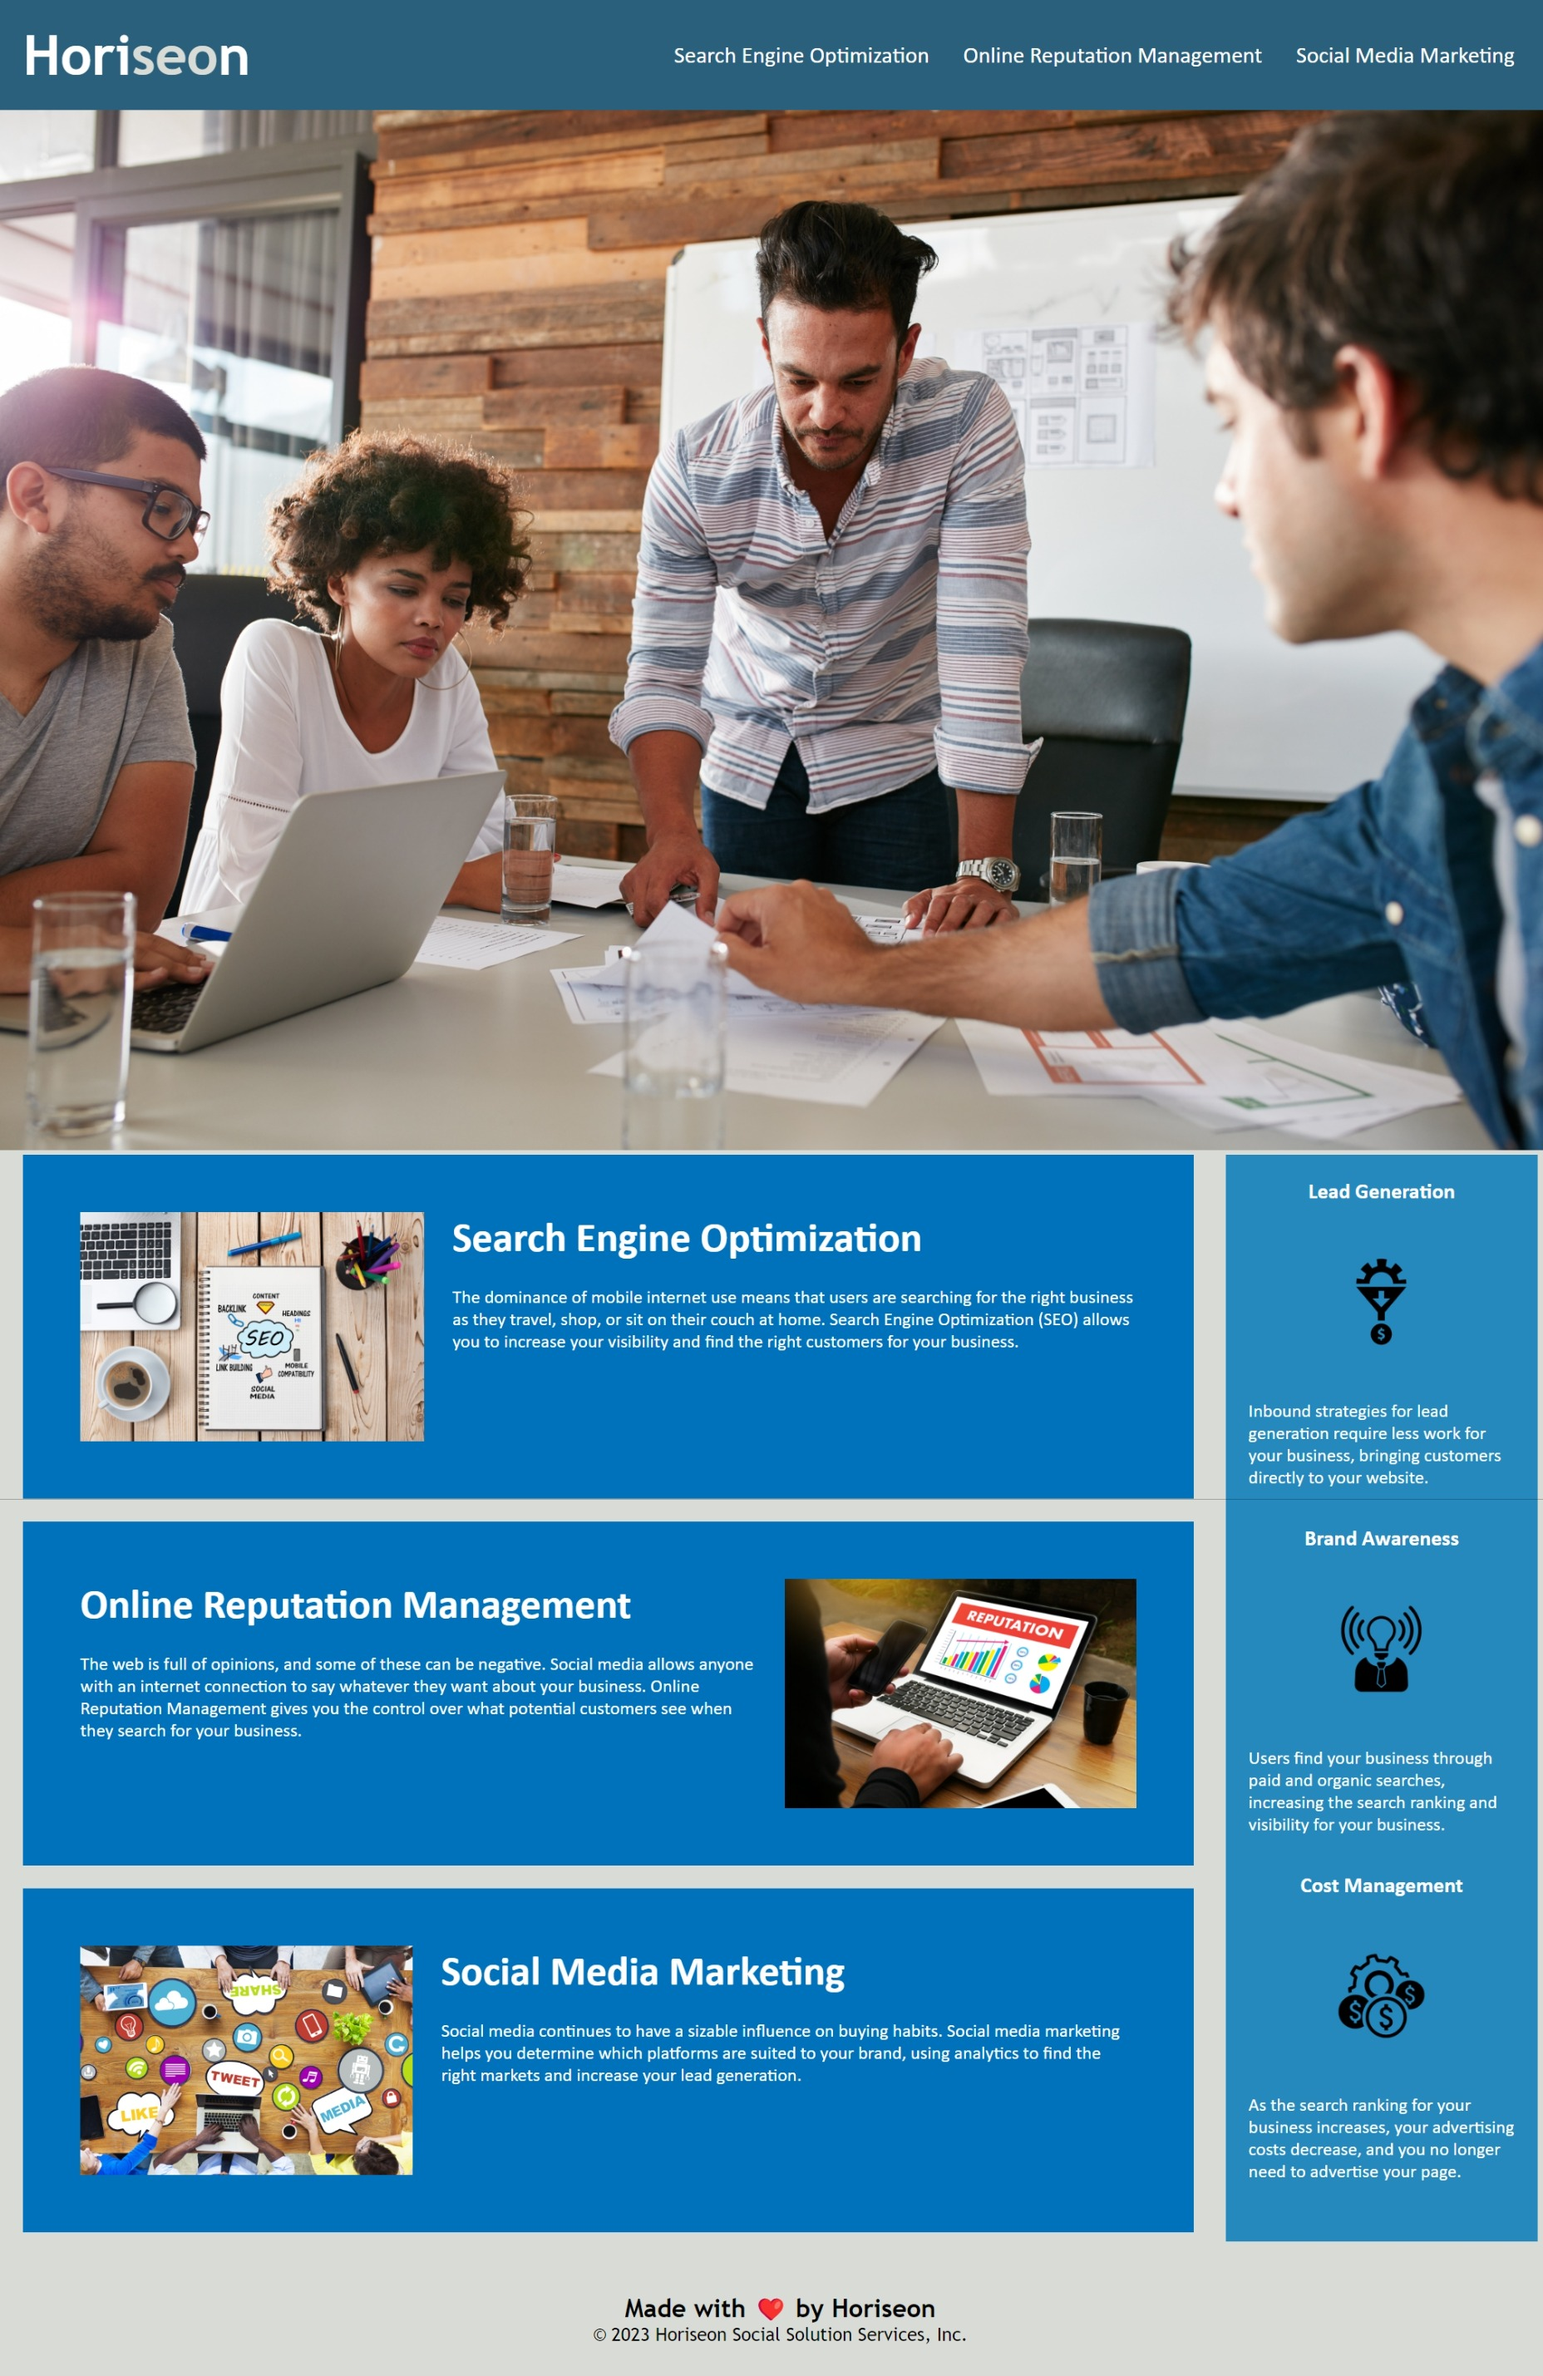
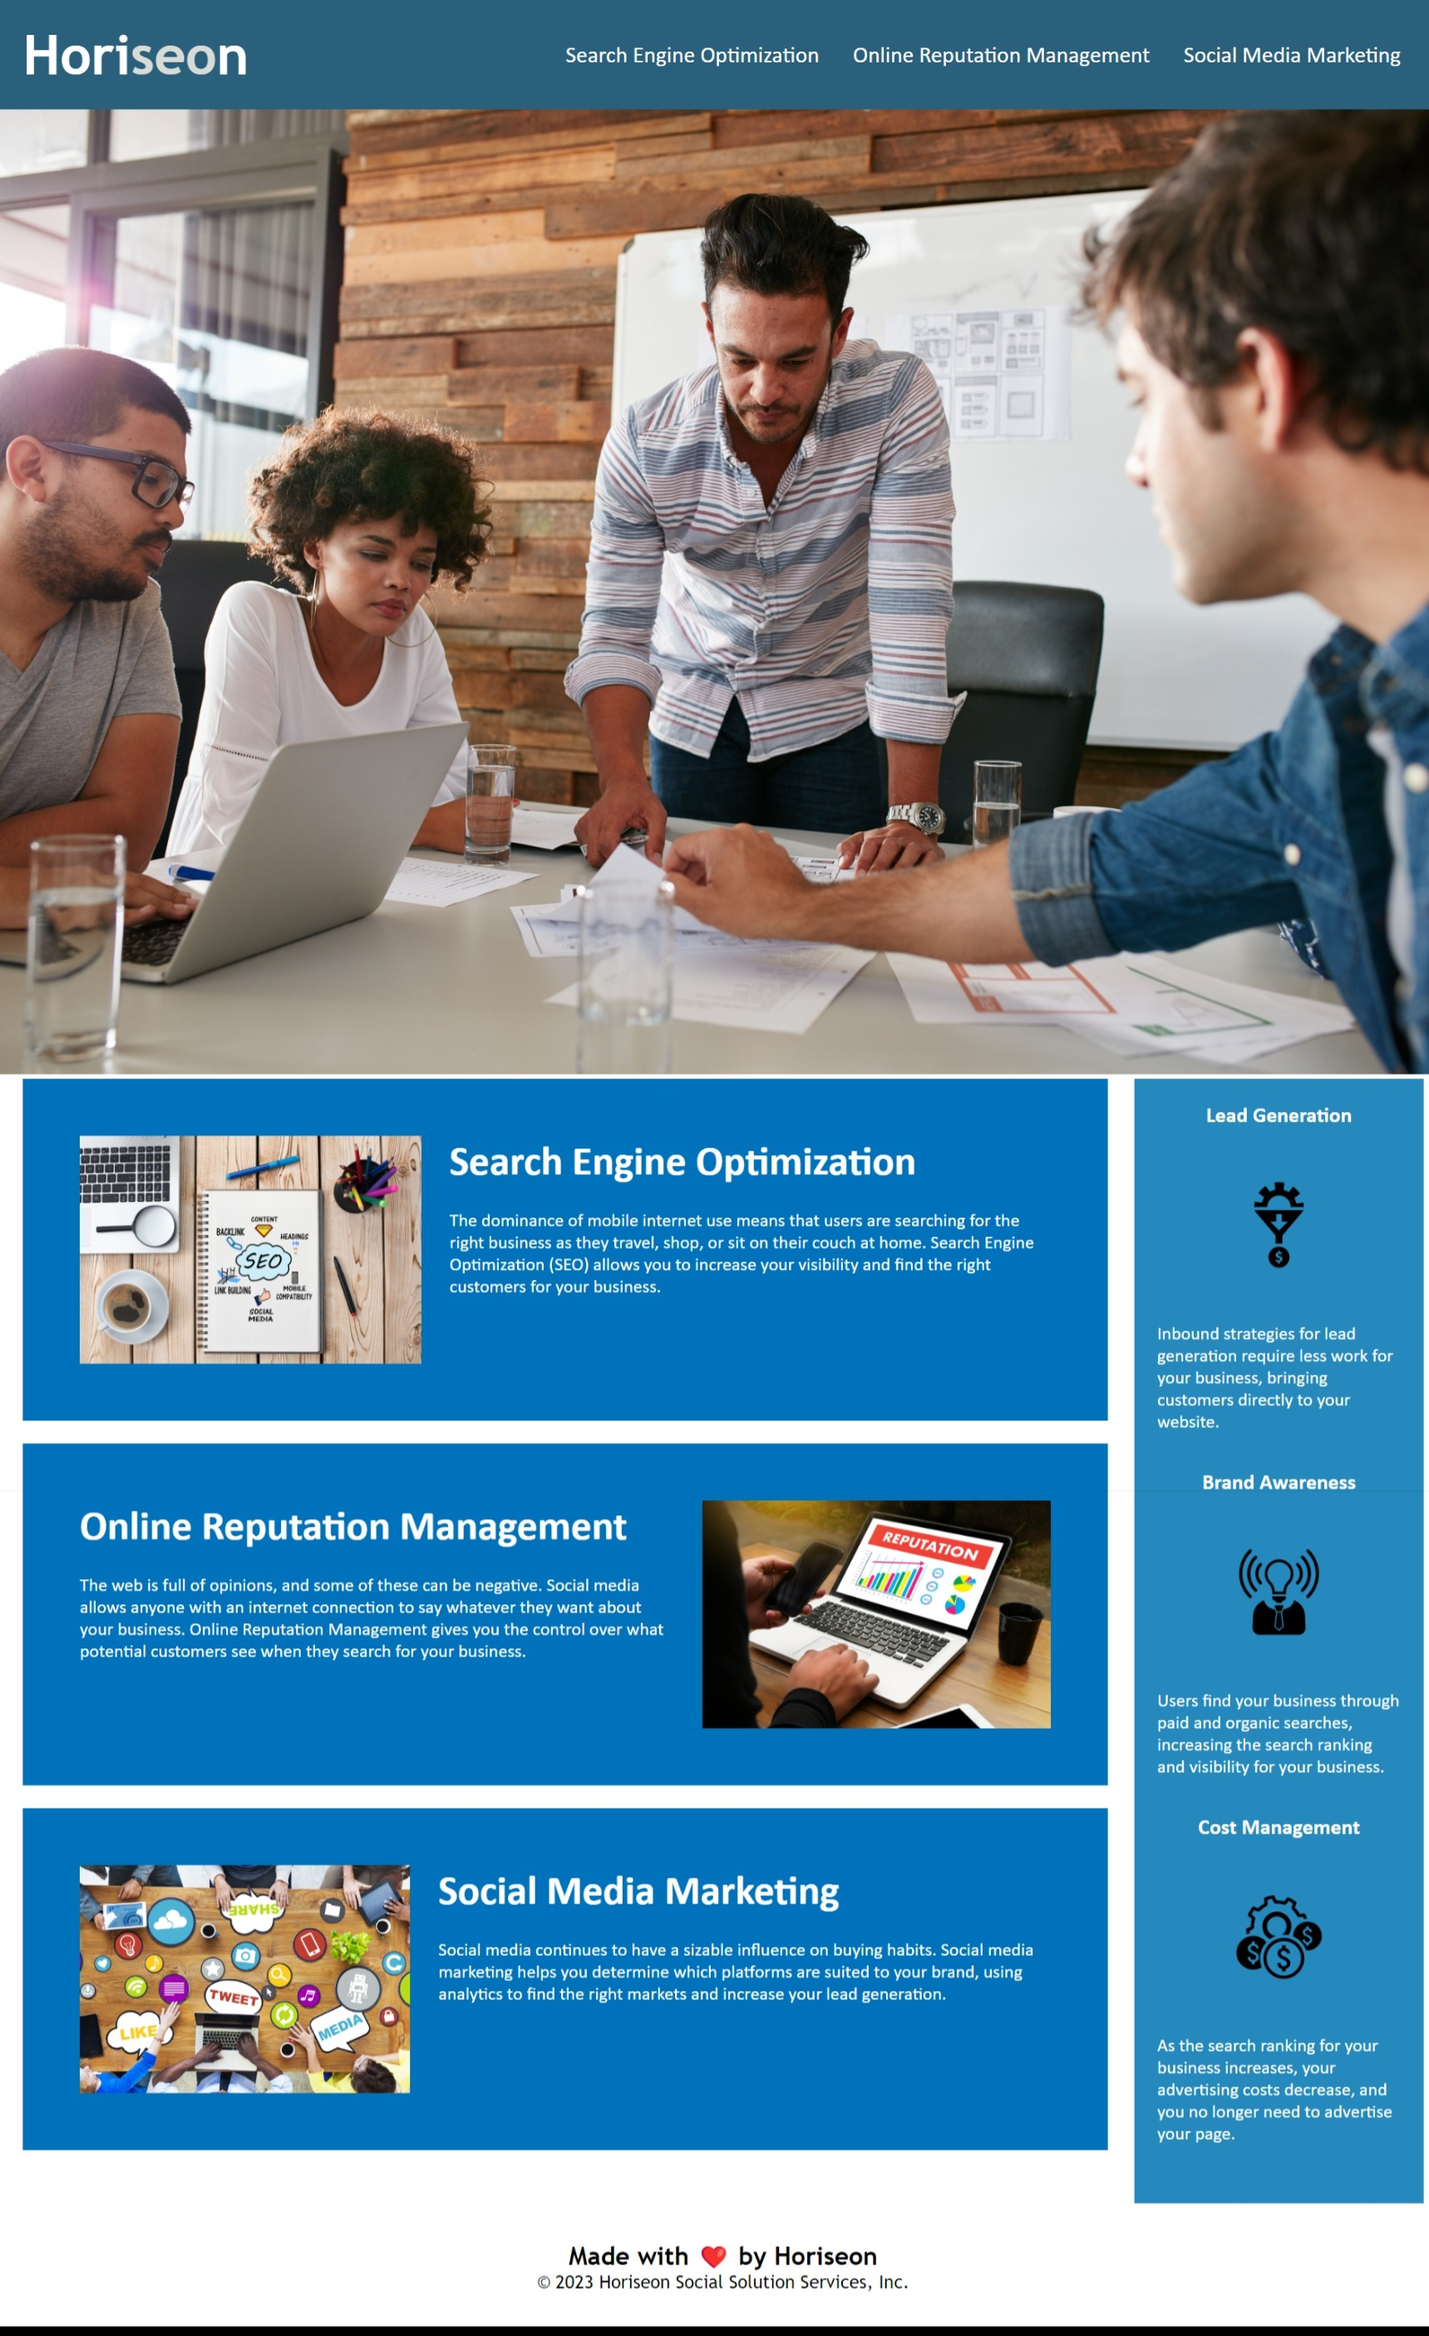
consolidated css, updated main bg to correct hex, updated screenshot and path

diff --git a/Public/assets/css/style.css b/Public/assets/css/style.css
@@ -4,10 +4,10 @@
     margin: 0;
 }
 
+/*changed to main to match HTML*/
 main {
-    background-color: #d9dcd6;
+    background-color: #ffffff;
 }
-
 
 /*Added NavBar ID*/
 .header {
@@ -34,7 +34,6 @@ main {
     font-size: 20px;
 }
 
-
 .header #navbar ul {
     list-style-type: none;
 }
@@ -43,9 +42,6 @@ main {
     display: inline-block;
     margin-left: 25px;
 }
-
-/*End Added NavBar ID ^^^*/
-
 
 a {
     color: #ffffff;
@@ -56,12 +52,17 @@ p {
     font-size: 16px;
 }
 
+/* Removed path here and background values, added path in HTML to be more consitent */
 .header-image {
     height: auto;
     width: 100%;
-    /*background-image: url("../images/digital-marketing-meeting.jpg"); */
-    background-size: cover;
-    background-position: center;
+}
+
+.content {
+    width: 75%;
+    height: 100%;
+    display: inline-block;
+    margin-left: 20px;
 }
 
 .float-left {
@@ -74,15 +75,7 @@ p {
     margin-left: 25px;
 }
 
-.content {
-    width: 75%;
-    height: 100%;
-    display: inline-block;
-    margin-left: 20px;
-}
-
 /* Changed Class name to match new HTML tag */
-
 .aside-benefit-bar {
 
     margin-right: 20px;
@@ -95,74 +88,33 @@ p {
     background-color: #2589bd;
 }
 
-.aside-benefit-bar-lead {
-    margin-bottom: 32px;
-    color: #ffffff;
-}
-
-.aside-benefit-bar-brand {
-    margin-bottom: 32px;
-    color: #ffffff;
-}
-
+.aside-benefit-bar-lead,
+.aside-benefit-bar-brand,
 .aside-benefit-bar-cost {
     margin-bottom: 32px;
     color: #ffffff;
 }
 
-.aside-benefit-bar-lead h3 {
-    margin-bottom: 10px;
-    text-align: center;
-}
-
-.aside-benefit-bar-brand h3 {
-    margin-bottom: 10px;
-    text-align: center;
-}
-
+/*Consolidated all three classes due to matching values, better vis*/
+.aside-benefit-bar-lead h3,
+.aside-benefit-bar-brand h3,
 .aside-benefit-bar-cost h3 {
     margin-bottom: 10px;
     text-align: center;
 }
 
-.aside-benefit-bar-lead img {
-    display: block;
-    margin: 10px auto;
-    max-width: 150px;
-}
-
-.aside-benefit-bar-brand img {
-    display: block;
-    margin: 10px auto;
-    max-width: 150px;
-}
-
+/*Consolidated all three classes due to matching values, better vis*/
+.aside-benefit-bar-lead img,
+.aside-benefit-bar-brand img,
 .aside-benefit-bar-cost img {
     display: block;
     margin: 10px auto;
     max-width: 150px;
 }
 
-/*Ending of aside bar chnages^ */
-
-.search-engine-optimization {
-    margin-bottom: 20px;
-    padding: 50px;
-    height: 300px;
-    font-family: 'Gill Sans', 'Gill Sans MT', Calibri, 'Trebuchet MS', sans-serif;
-    background-color: #0072bb;
-    color: #ffffff;
-}
-
-.online-reputation-management {
-    margin-bottom: 20px;
-    padding: 50px;
-    height: 300px;
-    font-family: 'Gill Sans', 'Gill Sans MT', Calibri, 'Trebuchet MS', sans-serif;
-    background-color: #0072bb;
-    color: #ffffff;
-}
-
+/*Consolidated all three classes due to matching values, better vis*/
+.search-engine-optimization,
+.online-reputation-management,
 .social-media-marketing {
     margin-bottom: 20px;
     padding: 50px;
@@ -172,40 +124,27 @@ p {
     color: #ffffff;
 }
 
-.search-engine-optimization img {
-    max-height: 200px;
-}
-
-.online-reputation-management img {
-    max-height: 200px;
-}
-
+/*Consolidated all three classes due to matching values, better vis*/
+.search-engine-optimization img,
+.online-reputation-management img,
 .social-media-marketing img {
     max-height: 200px;
 }
 
-.search-engine-optimization h2 {
-    margin-bottom: 20px;
-    font-size: 36px;
-}
-
-.online-reputation-management h2 {
-    margin-bottom: 20px;
-    font-size: 36px;
-}
-
+/*Consolidated all three classes due to matching values, better vis*/
+.search-engine-optimization h2,
+.online-reputation-management h2,
 .social-media-marketing h2 {
     margin-bottom: 20px;
     font-size: 36px;
 }
 
+/*Consolidated footer h4 since its wrapped in same element*/
 .footer {
     padding: 30px;
     clear: both;
     font-family: 'Trebuchet MS', 'Lucida Sans Unicode', 'Lucida Grande', 'Lucida Sans', Arial, sans-serif;
     text-align: center;
-}
-
-.footer h4 {
-    font-size: 22px; /*Increased font due to h4 tag instead h2 */
+    font-size: 22px;
+    /*Increased font due to h4 tag instead h2 */
 }
